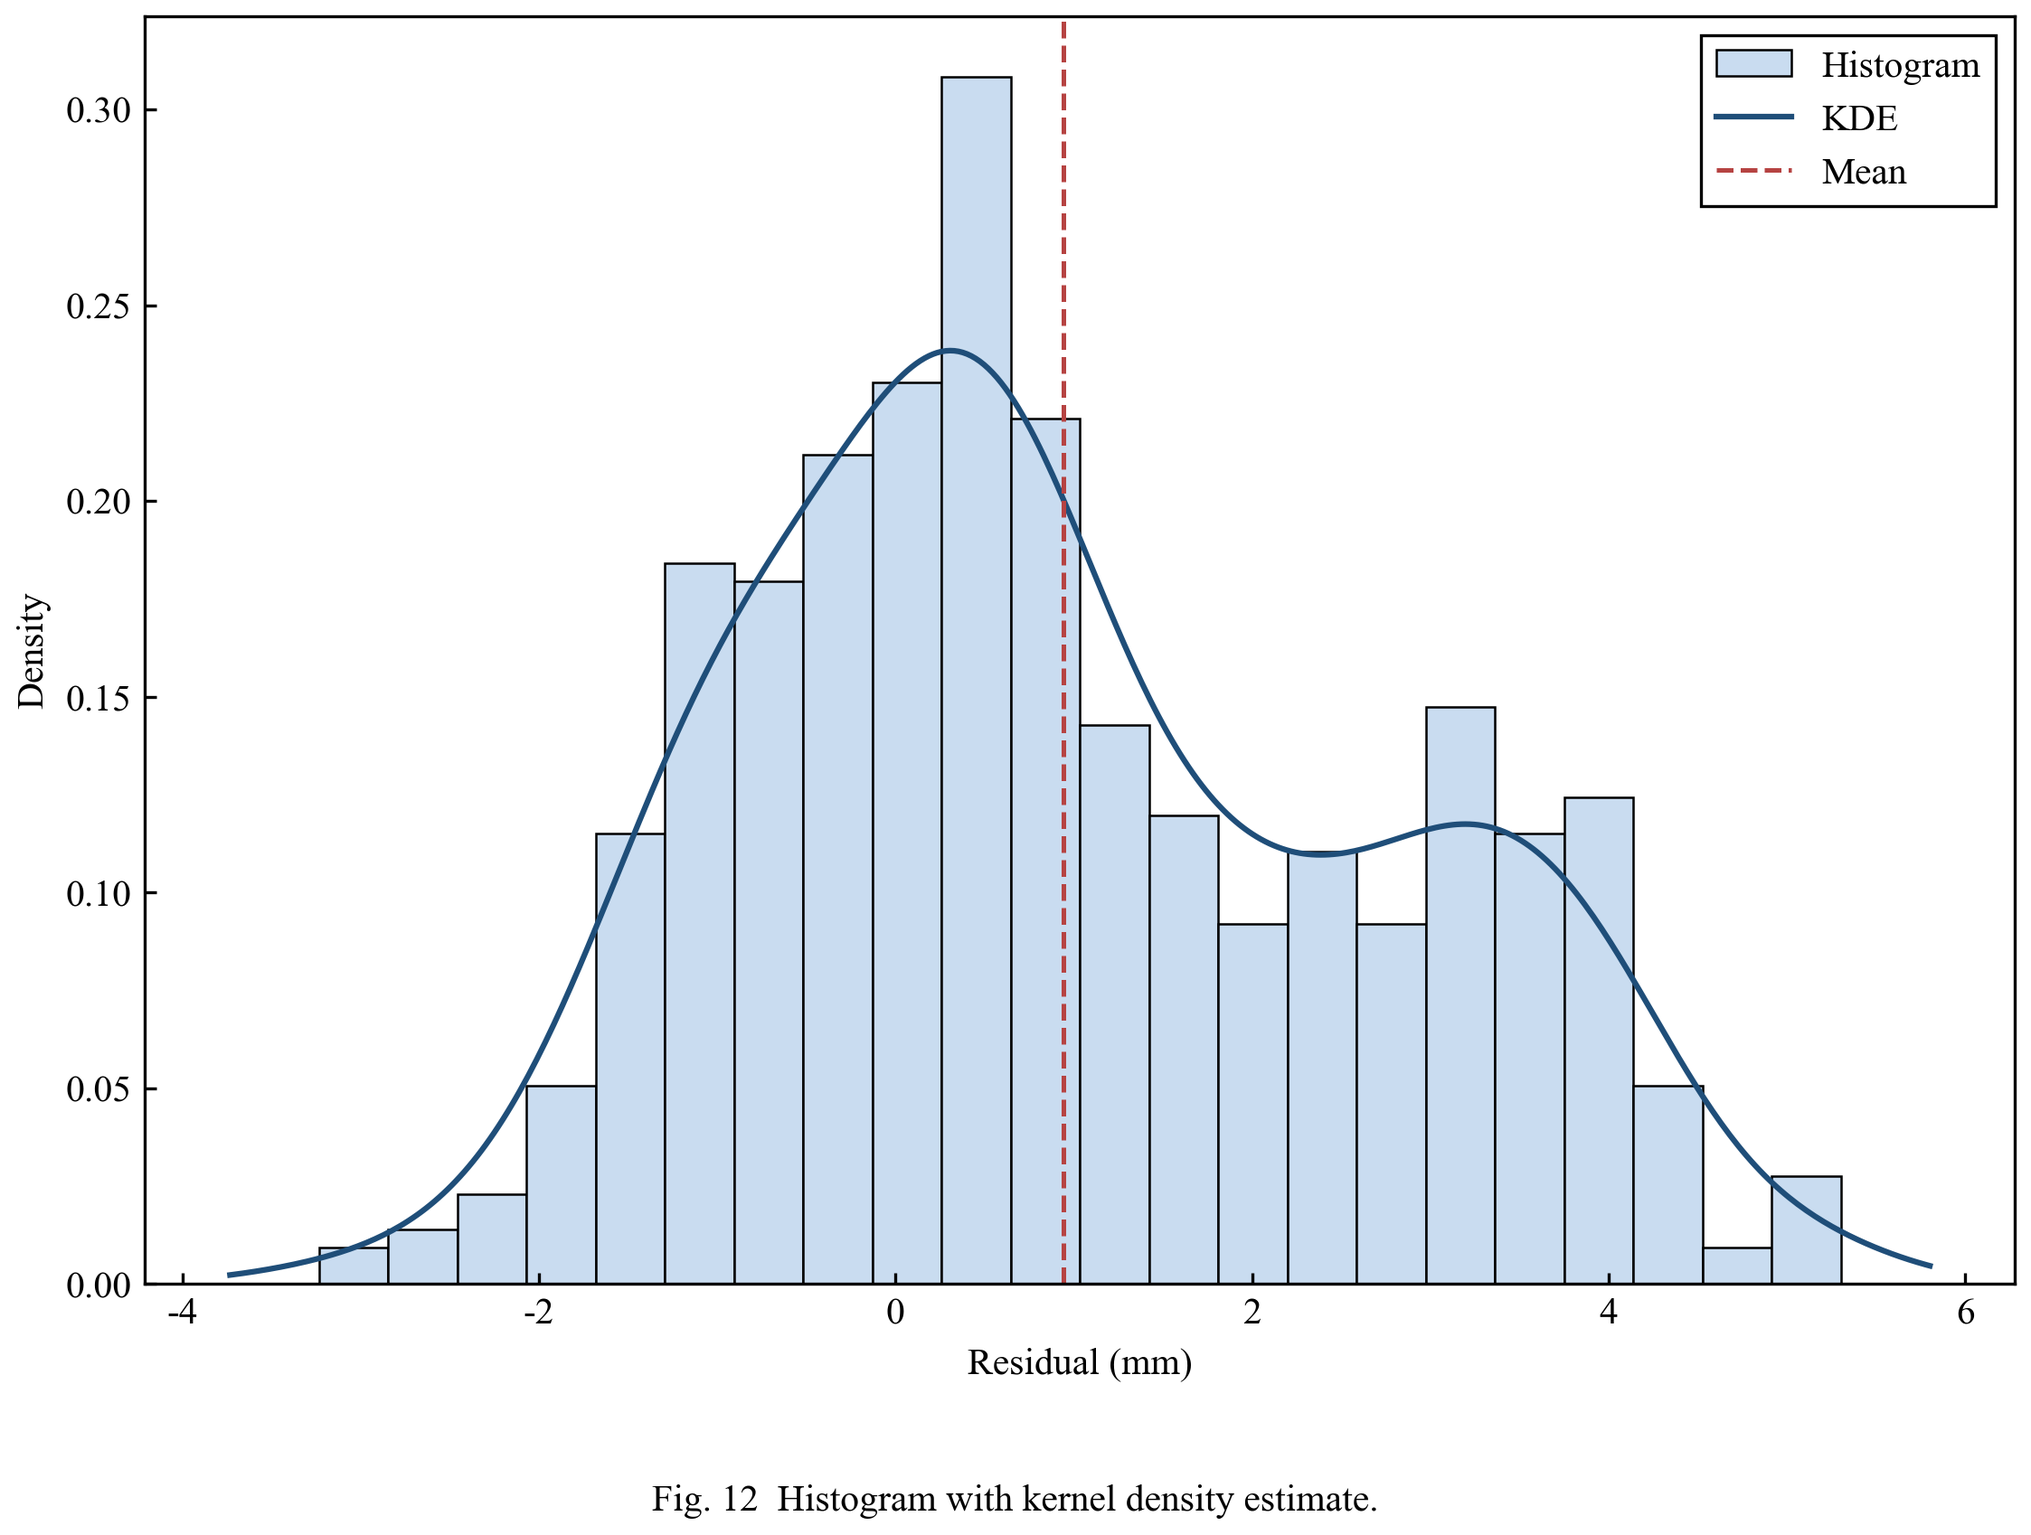
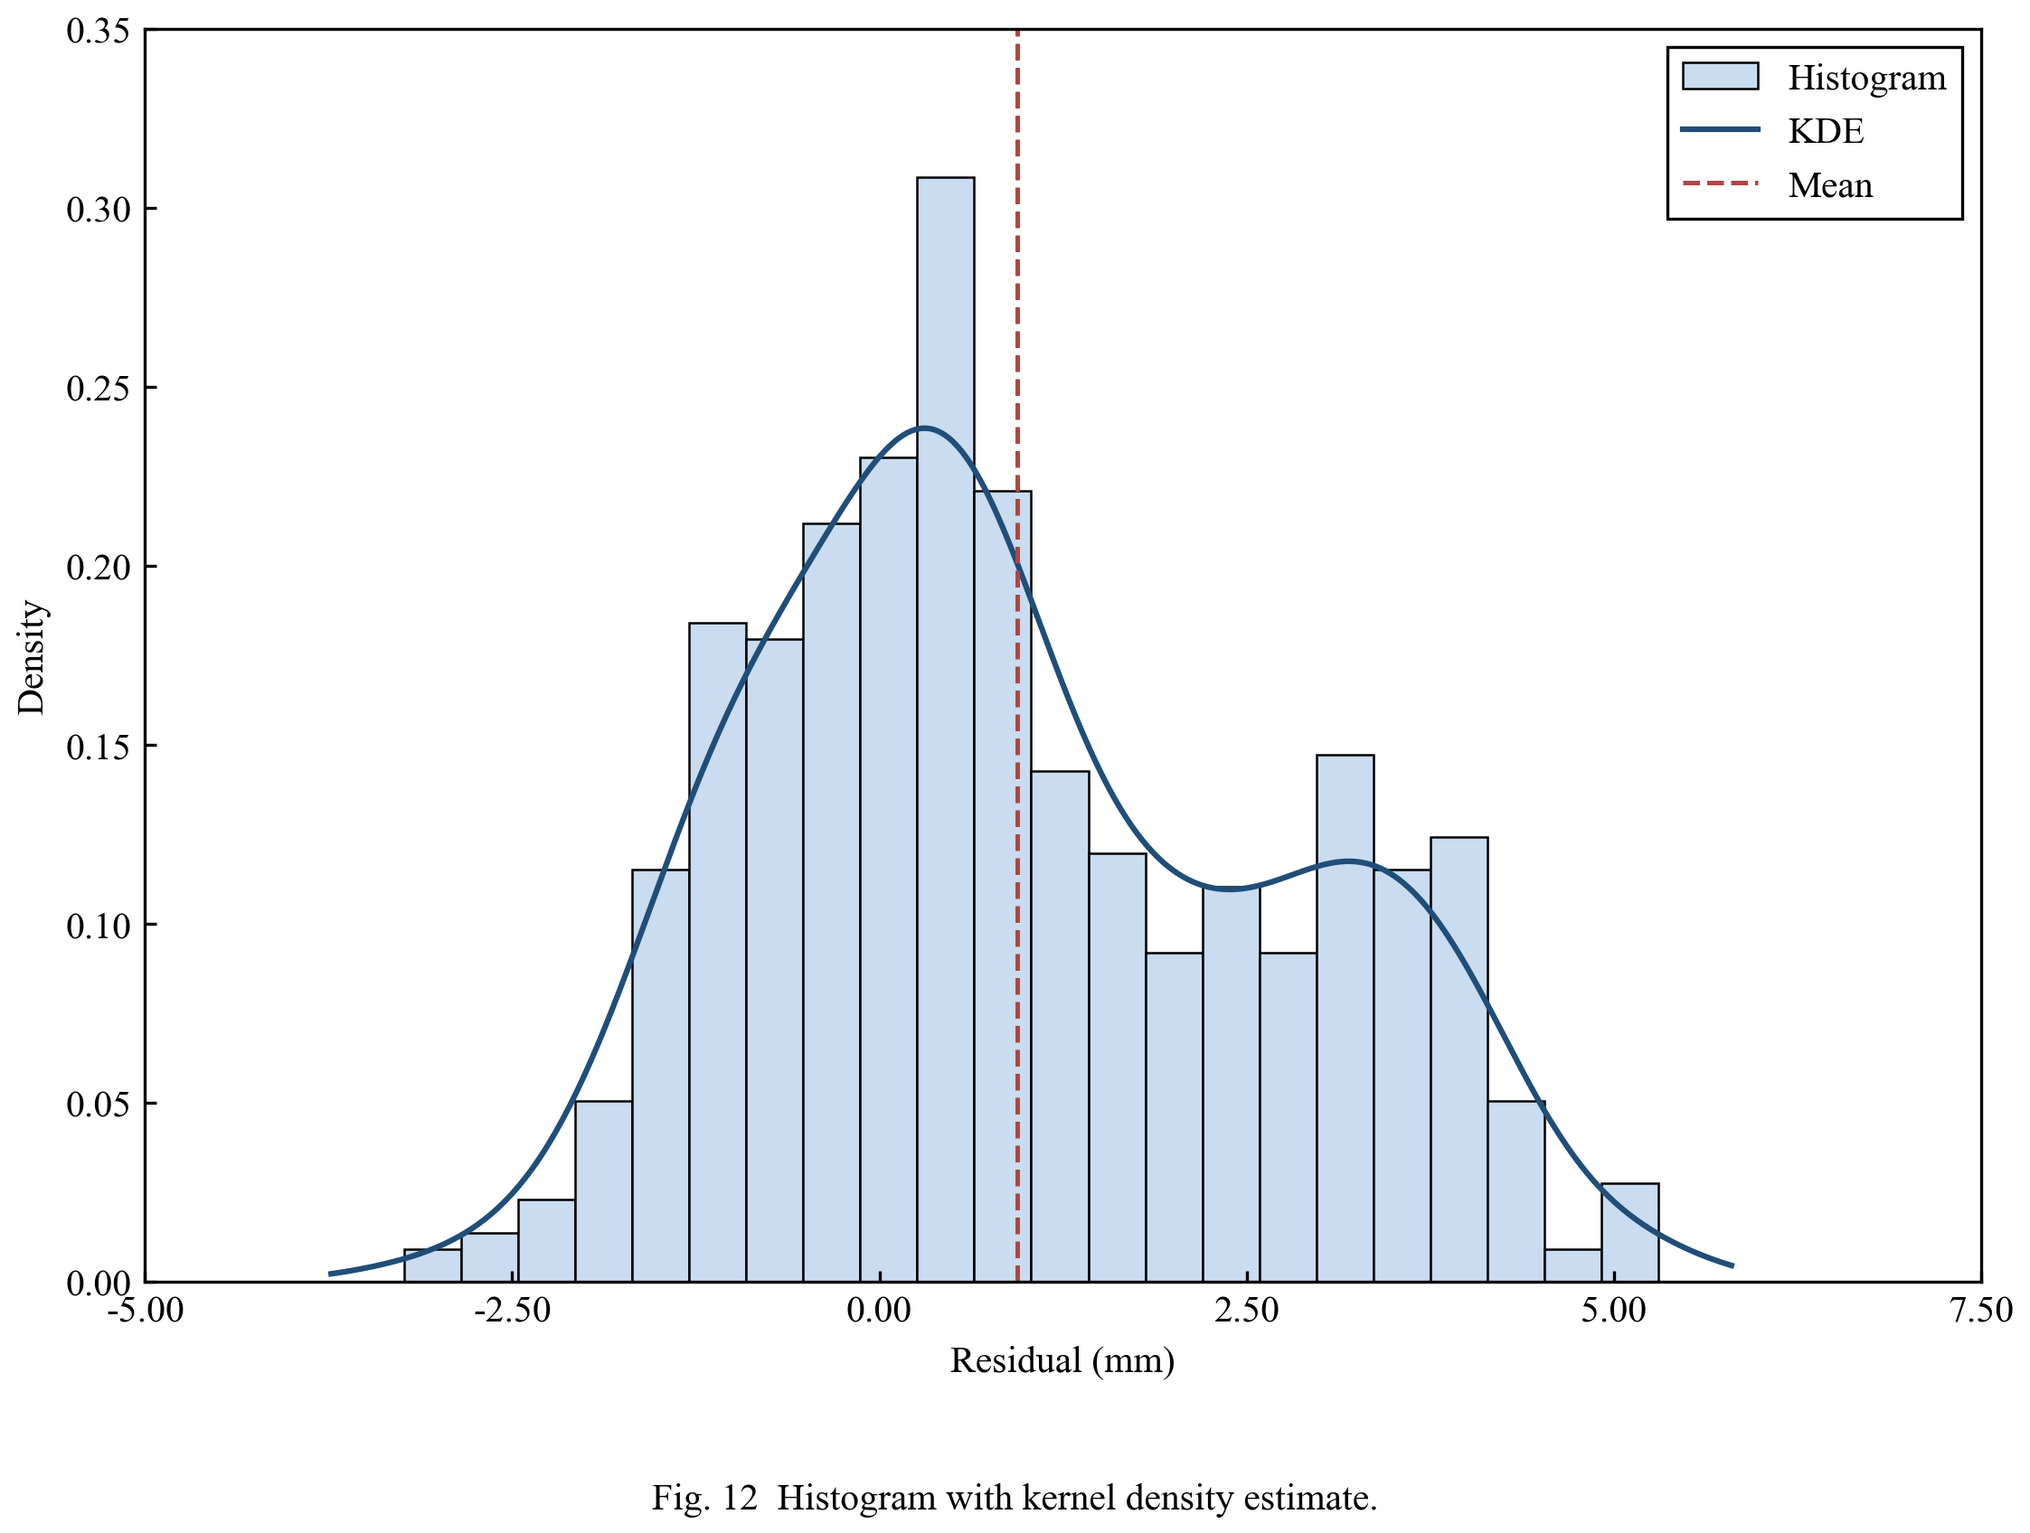
Lock axis ends onto tick values
Every numeric Cartesian axis now starts and ends exactly on its first and
last tick label, so no unlabelled strip is left at either end.

- add _nice_axis / lock_axis_ends / lock_axis_ends_all
- finalize_figure(lock_ends=True) applies it automatically
- check_wxl_style fails an axis whose ends miss the tick values
- categorical axes (bar categories, box labels, years) are exempt so their
  text labels survive; heatmap/polar/colorbar/pie axes are exempt too
- refresh the 20 preview images

diff --git a/assets/wxl_style.py b/assets/wxl_style.py
@@ -190,6 +190,112 @@ def add_caption(fig, text: str, fontsize: float | None = None, y: float = -0.045
                     fontsize=fontsize or WXL_FONTSIZE["caption"], **kwargs)
 
 
+def _nice_axis(lo: float, hi: float, min_ticks: int = 4, max_ticks: int = 8):
+    """Return ``(lo2, hi2, step)`` so that lo2/hi2 sit exactly on tick values."""
+    span = hi - lo
+    raw = span / max(max_ticks - 1, 1)
+    mag = 10.0 ** np.floor(np.log10(raw)) if raw > 0 else 1.0
+    best = None
+    for m in (1, 2, 2.5, 5, 10, 20, 25, 50):
+        step = m * mag
+        lo2 = np.floor(lo / step) * step
+        hi2 = np.ceil(hi / step) * step
+        count = int(round((hi2 - lo2) / step)) + 1
+        if count < min_ticks or count > max_ticks:
+            continue
+        pad = (lo - lo2) + (hi2 - hi)
+        score = pad / span + 0.05 * abs(count - 6)
+        if best is None or score < best[0]:
+            best = (score, float(lo2), float(hi2), float(step))
+    if best is None:
+        step = raw if raw > 0 else 1.0
+        return float(lo), float(hi), float(step)
+    _, lo2, hi2, step = best
+    # keep essentially non-negative data axes starting at zero
+    if lo2 < 0 and lo > -0.05 * span:
+        lo2 = 0.0
+    if hi2 > 0 and hi < 0.05 * span and hi <= 0:
+        hi2 = 0.0
+    return lo2, hi2, step
+
+
+def _axis_is_categorical(axis) -> bool:
+    """True when an axis carries category names rather than plain numbers.
+
+    A label counts as categorical when it is not numeric, or when its numeric
+    value does not match the tick position (years 2021..2024 placed at 0..3, for
+    example).
+    """
+    try:
+        ticks = [float(t) for t in axis.get_majorticklocs()]
+        labels = [t.get_text().strip() for t in axis.get_majorticklabels()]
+    except Exception:                                      # pragma: no cover
+        return False
+    if not ticks or len(ticks) != len(labels):
+        return False
+    for t, s in zip(ticks, labels):
+        if not s:
+            continue
+        try:
+            v = float(s.replace("\u2212", "-").replace(",", ""))
+        except ValueError:
+            return True
+        if abs(v - t) > 1e-6 * max(1.0, abs(t)):
+            return True
+    return False
+
+
+def lock_axis_ends(ax, max_ticks: int = 8, min_ticks: int = 4) -> int:
+    """Make both axis ends land exactly on the first and last tick label.
+
+    Expands the current limits outward to the nearest tick grid, sets the ticks
+    explicitly and uses a plain formatter (no offset, no scientific notation).
+    Categorical axes (bar categories, box labels, specimen names) are left alone
+    so their text labels survive. Returns the number of axes modified.
+    """
+    from matplotlib.ticker import FuncFormatter
+    n = 0
+    for name in ("x", "y"):
+        scale = ax.get_xscale() if name == "x" else ax.get_yscale()
+        if scale != "linear":
+            continue
+        get_lim = ax.get_xlim if name == "x" else ax.get_ylim
+        set_lim = ax.set_xlim if name == "x" else ax.set_ylim
+        set_ticks = ax.set_xticks if name == "x" else ax.set_yticks
+        axis = ax.xaxis if name == "x" else ax.yaxis
+        if _axis_is_categorical(axis):
+            continue
+        lo, hi = sorted(float(v) for v in get_lim())
+        if not (np.isfinite(lo) and np.isfinite(hi)) or hi <= lo:
+            continue
+        lo2, hi2, step = _nice_axis(lo, hi, min_ticks, max_ticks)
+        if hi2 <= lo2:
+            continue
+        ticks = np.arange(lo2, hi2 + step * 0.5, step)
+        set_lim(lo2, hi2)
+        set_ticks(ticks)
+        decimals = max(0, int(np.ceil(-np.log10(step)))) if step < 1 else 0
+        fmt = f"{{:.{decimals}f}}"
+        axis.set_major_formatter(FuncFormatter(lambda v, _pos: fmt.format(v)))
+        n += 1
+    return n
+
+
+def lock_axis_ends_all(fig, max_ticks: int = 8, min_ticks: int = 4) -> int:
+    """Apply :func:`lock_axis_ends` to every numeric Cartesian axes of a figure.
+
+    Image axes (``imshow`` heatmaps), polar axes, colorbar axes and axes with
+    ``axison == False`` (pie/donut) are skipped: their ticks are categorical and
+    already span the full extent.
+    """
+    n = 0
+    for ax in fig.get_axes():
+        if not ax.axison or _is_polar(ax) or hasattr(ax, "_colorbar") or ax.images:
+            continue
+        n += lock_axis_ends(ax, max_ticks=max_ticks, min_ticks=min_ticks)
+    return n
+
+
 def panel_tag(ax, tag: str, y: float = -0.32):
     """Panel label such as ``(a)`` placed just BELOW its own panel."""
     return ax.text(0.0, y, tag, transform=ax.transAxes, ha="left", va="top",
@@ -212,7 +318,8 @@ def measure_width_mm(path, dpi: int | None = None) -> float:
 
 def finalize_figure(fig, out_path, formats=None, dpi: int | None = None,
                     close: bool = True, pad: float = 0.06, layout: bool = True,
-                    target_width_mm: float | None = None, tol_mm: float = 0.5):
+                    target_width_mm: float | None = None, tol_mm: float = 0.5,
+                    lock_ends: bool = True):
     """Save the figure to one or more formats and return the list of paths.
 
     Saving always uses ``bbox_inches="tight"`` so a caption placed below the
@@ -238,6 +345,9 @@ def finalize_figure(fig, out_path, formats=None, dpi: int | None = None,
                 fig.tight_layout(pad=1.0)
             except Exception:
                 pass
+
+    if lock_ends:
+        lock_axis_ends_all(fig)
 
     _relayout()
 
@@ -330,10 +440,31 @@ def check_wxl_style(fig, style: WXLStyle | None = None, strict_sizes: bool = Tru
             if getattr(tk, "_tickdir", "in") != "in":
                 problems.append(f"axes[{i}]: tick direction is not 'in'")
                 break
-        if ax.get_xlabel() and not ax.xaxis.label.get_text().strip() == "":
-            pass
-        if ax.get_ylabel() and not ax.yaxis.label.get_text().strip() == "":
-            pass
+        # axis ends must land exactly on the first and last tick label
+        if not ax.images:
+            for name in ("x", "y"):
+                axis = ax.xaxis if name == "x" else ax.yaxis
+                if _axis_is_categorical(axis):
+                    continue                      # categorical axis
+                lims = sorted(float(v) for v in
+                              (ax.get_xlim() if name == "x" else ax.get_ylim()))
+                span = lims[1] - lims[0]
+                if span <= 0:
+                    continue
+                locs = sorted(float(t) for t in axis.get_majorticklocs()
+                              if lims[0] - 1e-9 <= float(t) <= lims[1] + 1e-9)
+                if not locs:
+                    problems.append(f"axes[{i}]: {name}-axis has no tick labels")
+                    continue
+                tol = max(1e-6 * span, 1e-9)
+                if abs(locs[0] - lims[0]) > tol or abs(locs[-1] - lims[1]) > tol:
+                    problems.append(
+                        f"axes[{i}]: {name}-axis ends {lims[0]:g}..{lims[1]:g} do not "
+                        f"sit on tick values {locs[0]:g}..{locs[-1]:g}")
+                labels = [t.get_text().strip() for t in axis.get_majorticklabels()]
+                labels = [l for l in labels if l]
+                if len(labels) < 2:
+                    problems.append(f"axes[{i}]: {name}-axis ends are unlabelled")
 
     # ---- legends: framed, inside, opaque ------------------------------
     n_legends = 0

diff --git a/examples/gallery.py b/examples/gallery.py
@@ -26,7 +26,7 @@ sys.path.insert(0, str(SKILL / "assets"))
 from wxl_style import (  # noqa: E402
     WXL_CMAP, WXL_FIGSIZE, WXL_FONTSIZE, WXL_PALETTE, WXL_WIDTH_MM, add_caption,
     apply_wxl_style, check_wxl_style, create_subplots, finalize_figure,
-    framed_legend, measure_width_mm, panel_tag,
+    framed_legend, lock_axis_ends_all, measure_width_mm, panel_tag,
 )
 
 P = WXL_PALETTE
@@ -724,6 +724,7 @@ def build(outdir: Path):
     for spec in FIGS:
         apply_wxl_style()
         fig = spec["fn"]()
+        lock_axis_ends_all(fig)
         report = check_wxl_style(fig)
         paths = finalize_figure(fig, figs_dir / spec["id"],
                                 formats=["png", "pdf"], dpi=300,

diff --git a/scripts/check_wxl_style.py b/scripts/check_wxl_style.py
@@ -24,7 +24,8 @@ sys.path.insert(0, str(Path(__file__).resolve().parents[1] / "assets"))
 
 from wxl_style import (  # noqa: E402
     WXL_FIGSIZE, WXL_FONTSIZE, WXL_PALETTE, add_caption, apply_wxl_style,
-    check_wxl_style, create_subplots, framed_legend, panel_tag,
+    check_wxl_style, create_subplots, framed_legend, lock_axis_ends_all,
+    panel_tag,
 )
 
 P = WXL_PALETTE
@@ -73,6 +74,7 @@ def build_reference_figure():
     cb.outline.set_linewidth(0.8)
 
     add_caption(fig, "Fig. 1  Reference figure exercising every WXL style element.")
+    lock_axis_ends_all(fig)
     return fig
 
 

diff --git a/references/api.md b/references/api.md
@@ -114,12 +114,16 @@ Places the figure caption centered **below** the whole figure and returns the
 Places `(a)`, `(b)`, ... just below the panel. With an x-label present, use
 `y=-0.42` so the tag clears the label.
 
-### finalize_figure(fig, out_path, formats=None, dpi=None, close=True, pad=0.06, layout=True, target_width_mm=None, tol_mm=0.5)
+### finalize_figure(fig, out_path, formats=None, dpi=None, close=True, pad=0.06, layout=True, target_width_mm=None, tol_mm=0.5, lock_ends=True)
 
 Saves to one or more formats (`png`, `pdf`, `svg`, `eps`, `tif`), creates parent
 directories, applies `tight_layout(pad=1.0)` unless `layout=False`, and always
 uses `bbox_inches="tight"`. Returns the list of saved paths. Use
 `dpi=600` for submission and `dpi=300` for HTML previews.
+
+`lock_ends=True` (default) runs `lock_axis_ends_all` before saving, so every
+numeric axis ends exactly on a tick label. Set it to `False` only for a figure
+whose axes must keep hand-set limits.
 
 `target_width_mm` iteratively calibrates the canvas width (up to six probe
 renders) so the **trimmed** image is exactly that wide while keeping the text at
@@ -131,6 +135,23 @@ about 8.3 pt.
 finalize_figure(fig, "figures/result", formats=["png", "pdf"], dpi=600,
                 target_width_mm=WXL_WIDTH_MM["double"])
 ```
+
+### lock_axis_ends(ax, max_ticks=8, min_ticks=4) -> int
+
+Expands the current limits outward to the nearest tick grid, sets the ticks
+explicitly, and installs a plain formatter with no offset and no scientific
+notation, so the axis starts and ends exactly on its first and last tick label.
+Essentially non-negative data keeps a zero lower bound. Returns the number of
+axes modified.
+
+### lock_axis_ends_all(fig, max_ticks=8, min_ticks=4) -> int
+
+Applies `lock_axis_ends` to every numeric Cartesian axes of a figure. Image axes
+(`imshow` heatmaps), polar axes, colorbar axes and axes with `axison == False`
+are skipped because their ticks are categorical and already span the full
+extent. `finalize_figure` calls this automatically, so figures produced through
+the normal path are compliant. Call it yourself only when you audit a figure with
+`check_wxl_style` before saving.
 
 ### measure_width_mm(path, dpi=None) -> float
 
@@ -163,6 +184,9 @@ Checks performed:
   colorbar axes are exempt);
 - no visible grid lines;
 - tick direction is `in`;
+- both ends of every numeric Cartesian axis sit on tick values, and the first
+  and last tick carry a label (image, polar, colorbar and pie/donut axes are
+  exempt);
 - every legend has a visible frame, black border and no transparency;
 - every `Line2D`, `Patch` and `PathCollection` color comes from the palette
   plus black/white.

diff --git a/references/design-theory.md b/references/design-theory.md
@@ -109,6 +109,15 @@ and more contrast is needed.
   bounded region and matches the table rules used in the same manuscripts.
 - **Ticks**: inward, 3 pt long, 0.8 pt wide. Inward ticks keep the outer canvas
   clean and avoid collisions with adjacent panels.
+- **Axis ends**: every numeric axis starts and ends exactly on a tick label.
+  Matplotlib's default autoscaling leaves a 5 % margin, so the last tick often
+  falls short of the axis end and the reader sees an unlabelled strip on the
+  right or top. `lock_axis_ends_all` rounds the limits outward to a
+  1 / 2 / 2.5 / 5 / 10 step grid, sets the ticks explicitly and installs a plain
+  formatter, so the first and last labels sit on the spines. Steps are chosen to
+  keep four to eight ticks while minimising padding. Non-negative data keeps a
+  zero lower bound, which is why a strain axis spanning 10 to 410 mm is drawn as
+  0 to 500 mm rather than −100 to 500 mm.
 - **Grid**: none. Tick values plus the full box carry the reading task. The only
   exception is the radar chart, where a light `neutral` grid at 35 % alpha is
   required to read values off the polar axes.
@@ -149,6 +158,7 @@ fixed bounding box would clip it.
 |---|---|---|
 | Radar (polar) | keeps a light grid, no rectangular spines | polar axes have no four-spine frame, and values are unreadable without a grid |
 | Pie / donut | `ax.set_axis_off()` | there are no axes to frame |
+| Categorical axes | not end-locked | category labels sit at bar / box centers, and locking the ends would clip half of the first and last category |
 | Colorbar | spines not checked | the colorbar draws its own 0.8 pt outline |
 | Slide export | `WXL_FIGSIZE["slide"]` | slides are viewed, not printed, so the 10 pt/print-width contract does not apply |
 

diff --git a/SKILL.md b/SKILL.md
@@ -49,9 +49,15 @@ These rules supersede any conflicting style text in `references/` or in upstream
 5. **Legend inside the axes, framed.** `loc="best"` or the emptiest corner,
    opaque white face, black 0.8 pt border, `framealpha = 1`. If `"best"` would
    cover bars, move it or use two columns. Never place it outside the figure.
-6. **Ticks point inward, no grid.** Ticks 3 pt long at 0.8 pt width. The only
-   grid exception is the radar chart, which keeps a light neutral grid so the
-   values stay readable.
+6. **Ticks point inward, no grid, and both axis ends land on a tick value.**
+   Ticks are 3 pt long at 0.8 pt width. Every numeric Cartesian axis must start
+   and end exactly on its first and last tick label, so a reader never sees an
+   unlabelled strip at either end. `finalize_figure` calls `lock_axis_ends_all`
+   automatically, and `check_wxl_style` fails a figure whose axis ends are not on
+   tick values. The only grid exception is the radar chart, which keeps a light
+   neutral grid so the values stay readable. Image axes (heatmaps), polar axes,
+   colorbar axes and pie/donut axes are exempt because their ticks are
+   categorical and already span the full extent.
 7. **Caption below the figure**, centered, via `add_caption`. Never
    `fig.suptitle` and never a title on top of the axes. Panel tags `(a)`, `(b)`
    go just below their own panel.

diff --git a/README.md b/README.md
@@ -18,7 +18,7 @@ inserted at its original size.
 | Palette | deep blue `#1F4E79` primary, `#B64342` contrast, `#2E8B7A` improve, `#E0A030` accent, `#7B7B7B` neutral, `#C9DCF0` light |
 | Axes | full box, 0.8 pt spines |
 | Legend | inside the axes, white face, black 0.8 pt border |
-| Ticks | inward, no grid |
+| Ticks | inward, no grid, both axis ends land on a tick label |
 | Caption | below the figure, centered |
 | Width | single 90 mm / onehalf 140 mm / double 190 mm |
 | Export | PNG 600 dpi + vector PDF |
